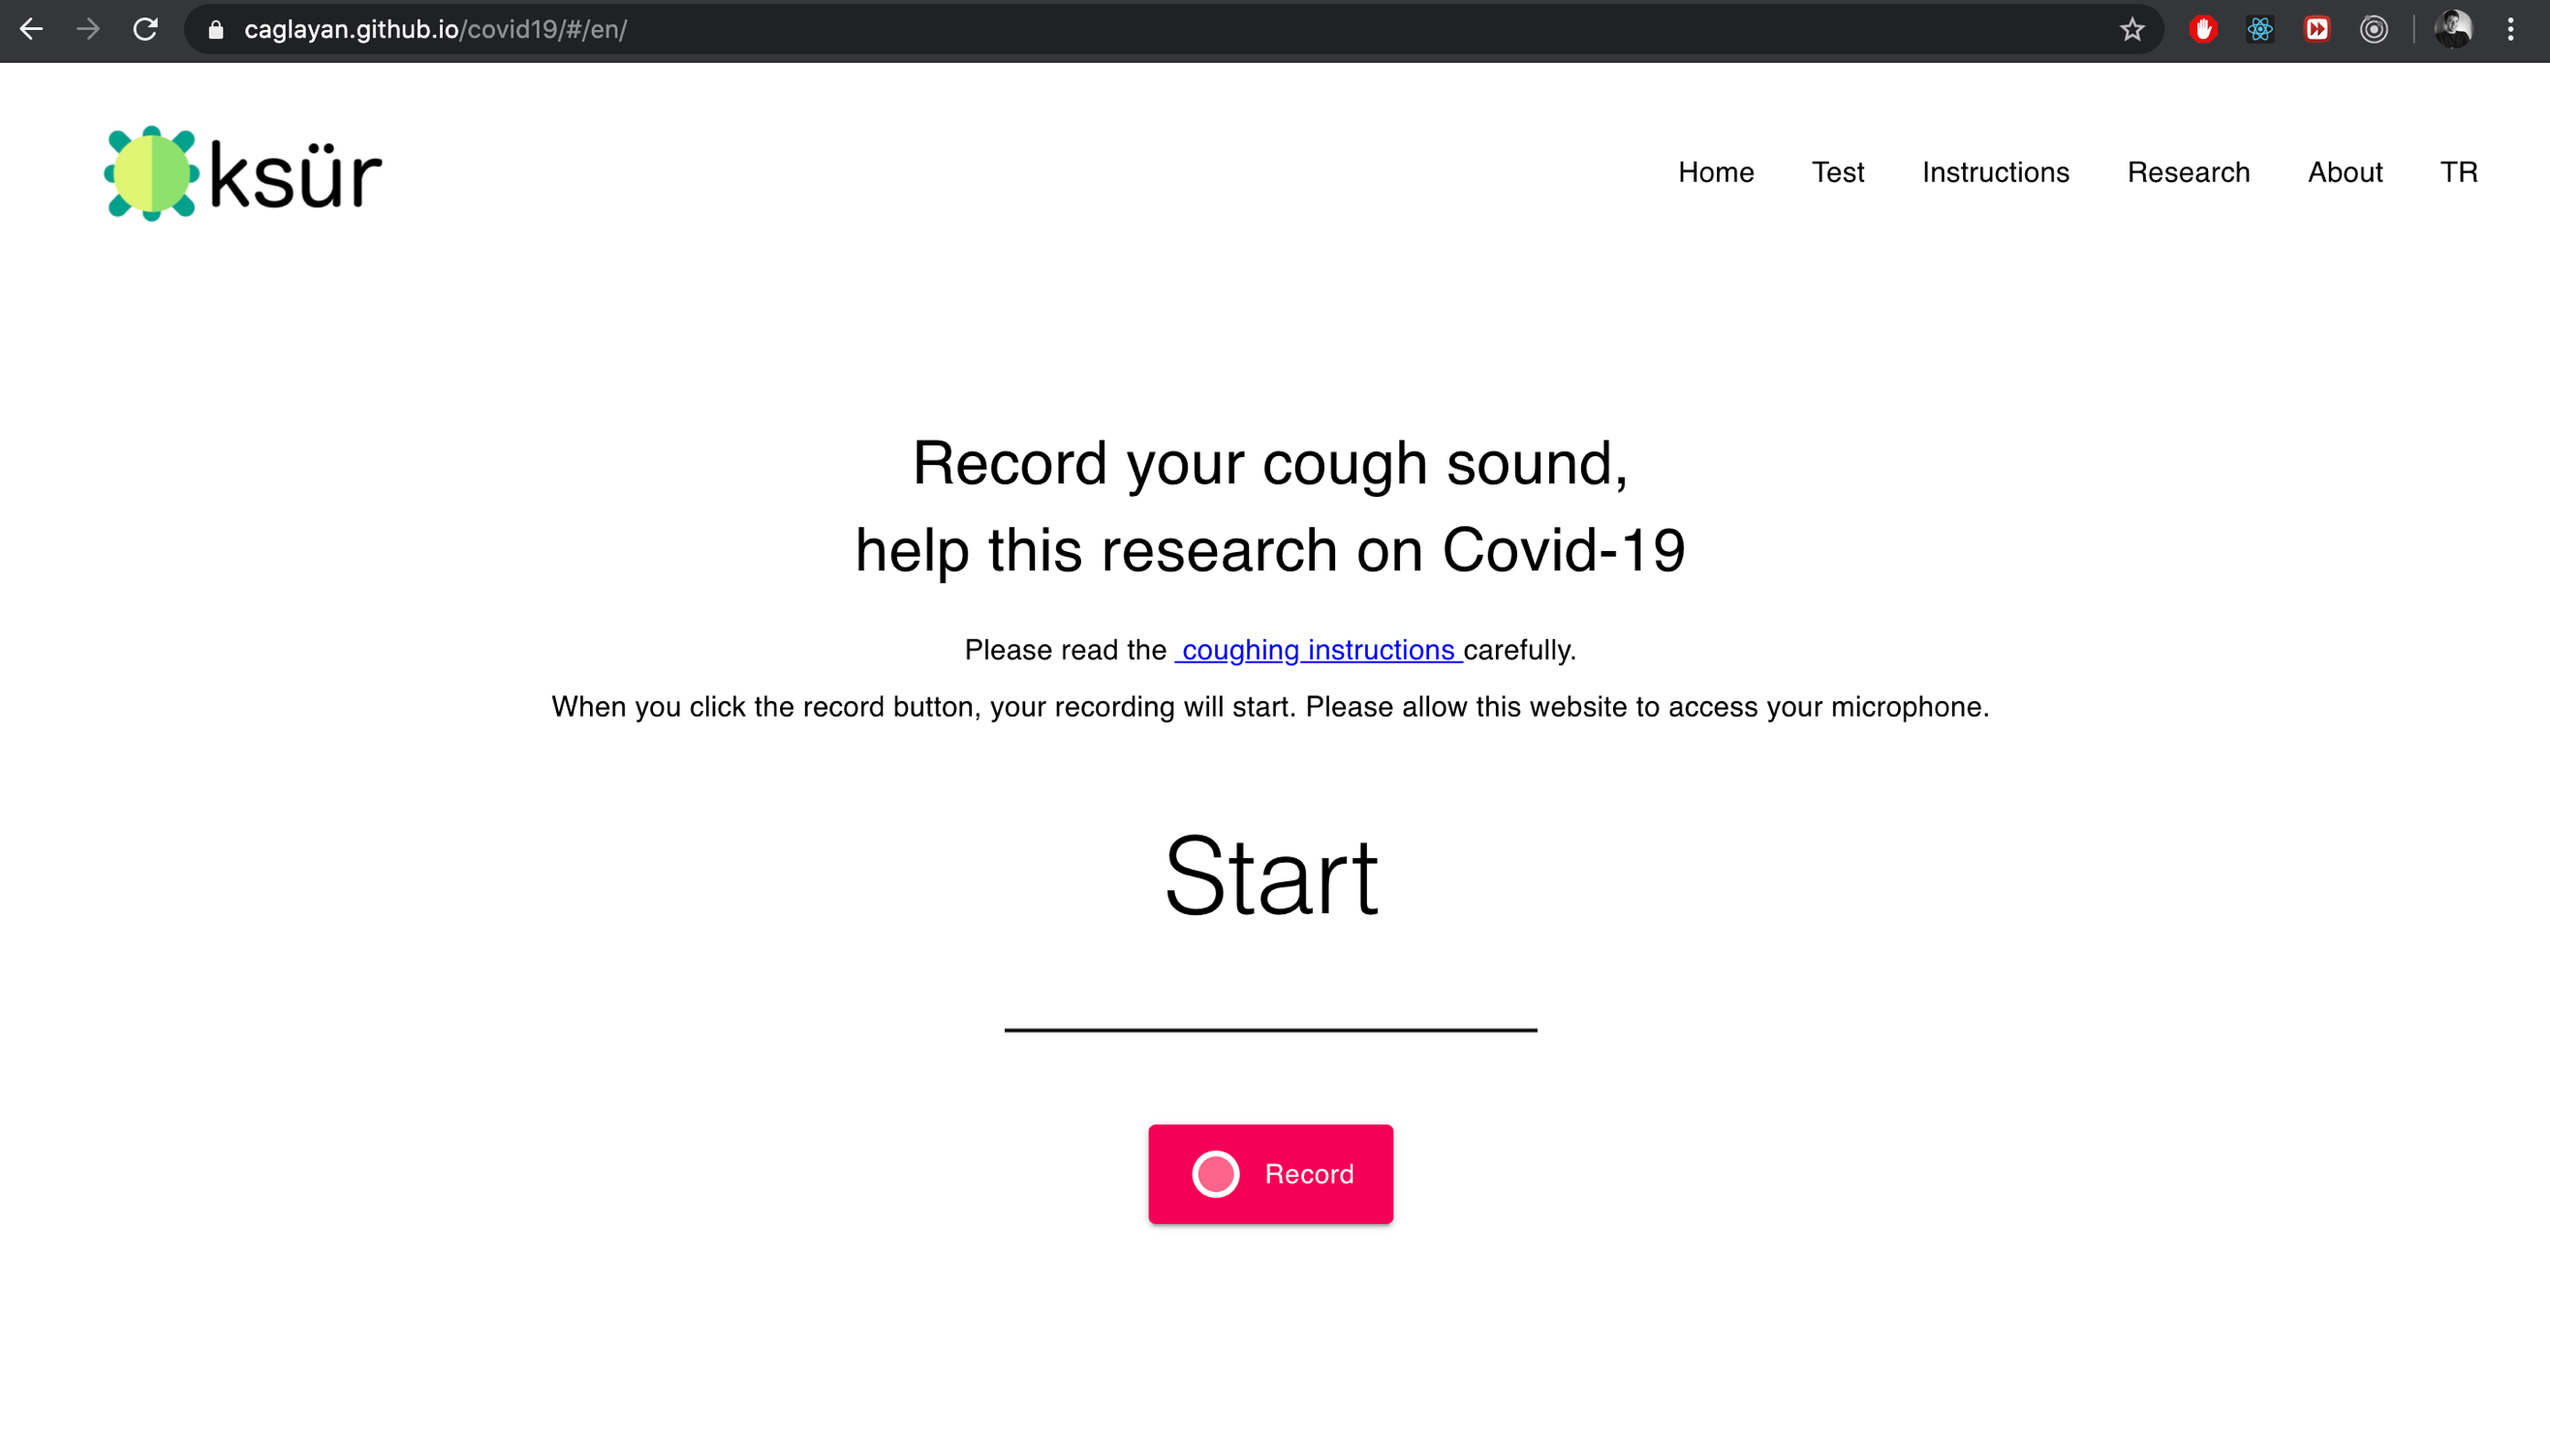
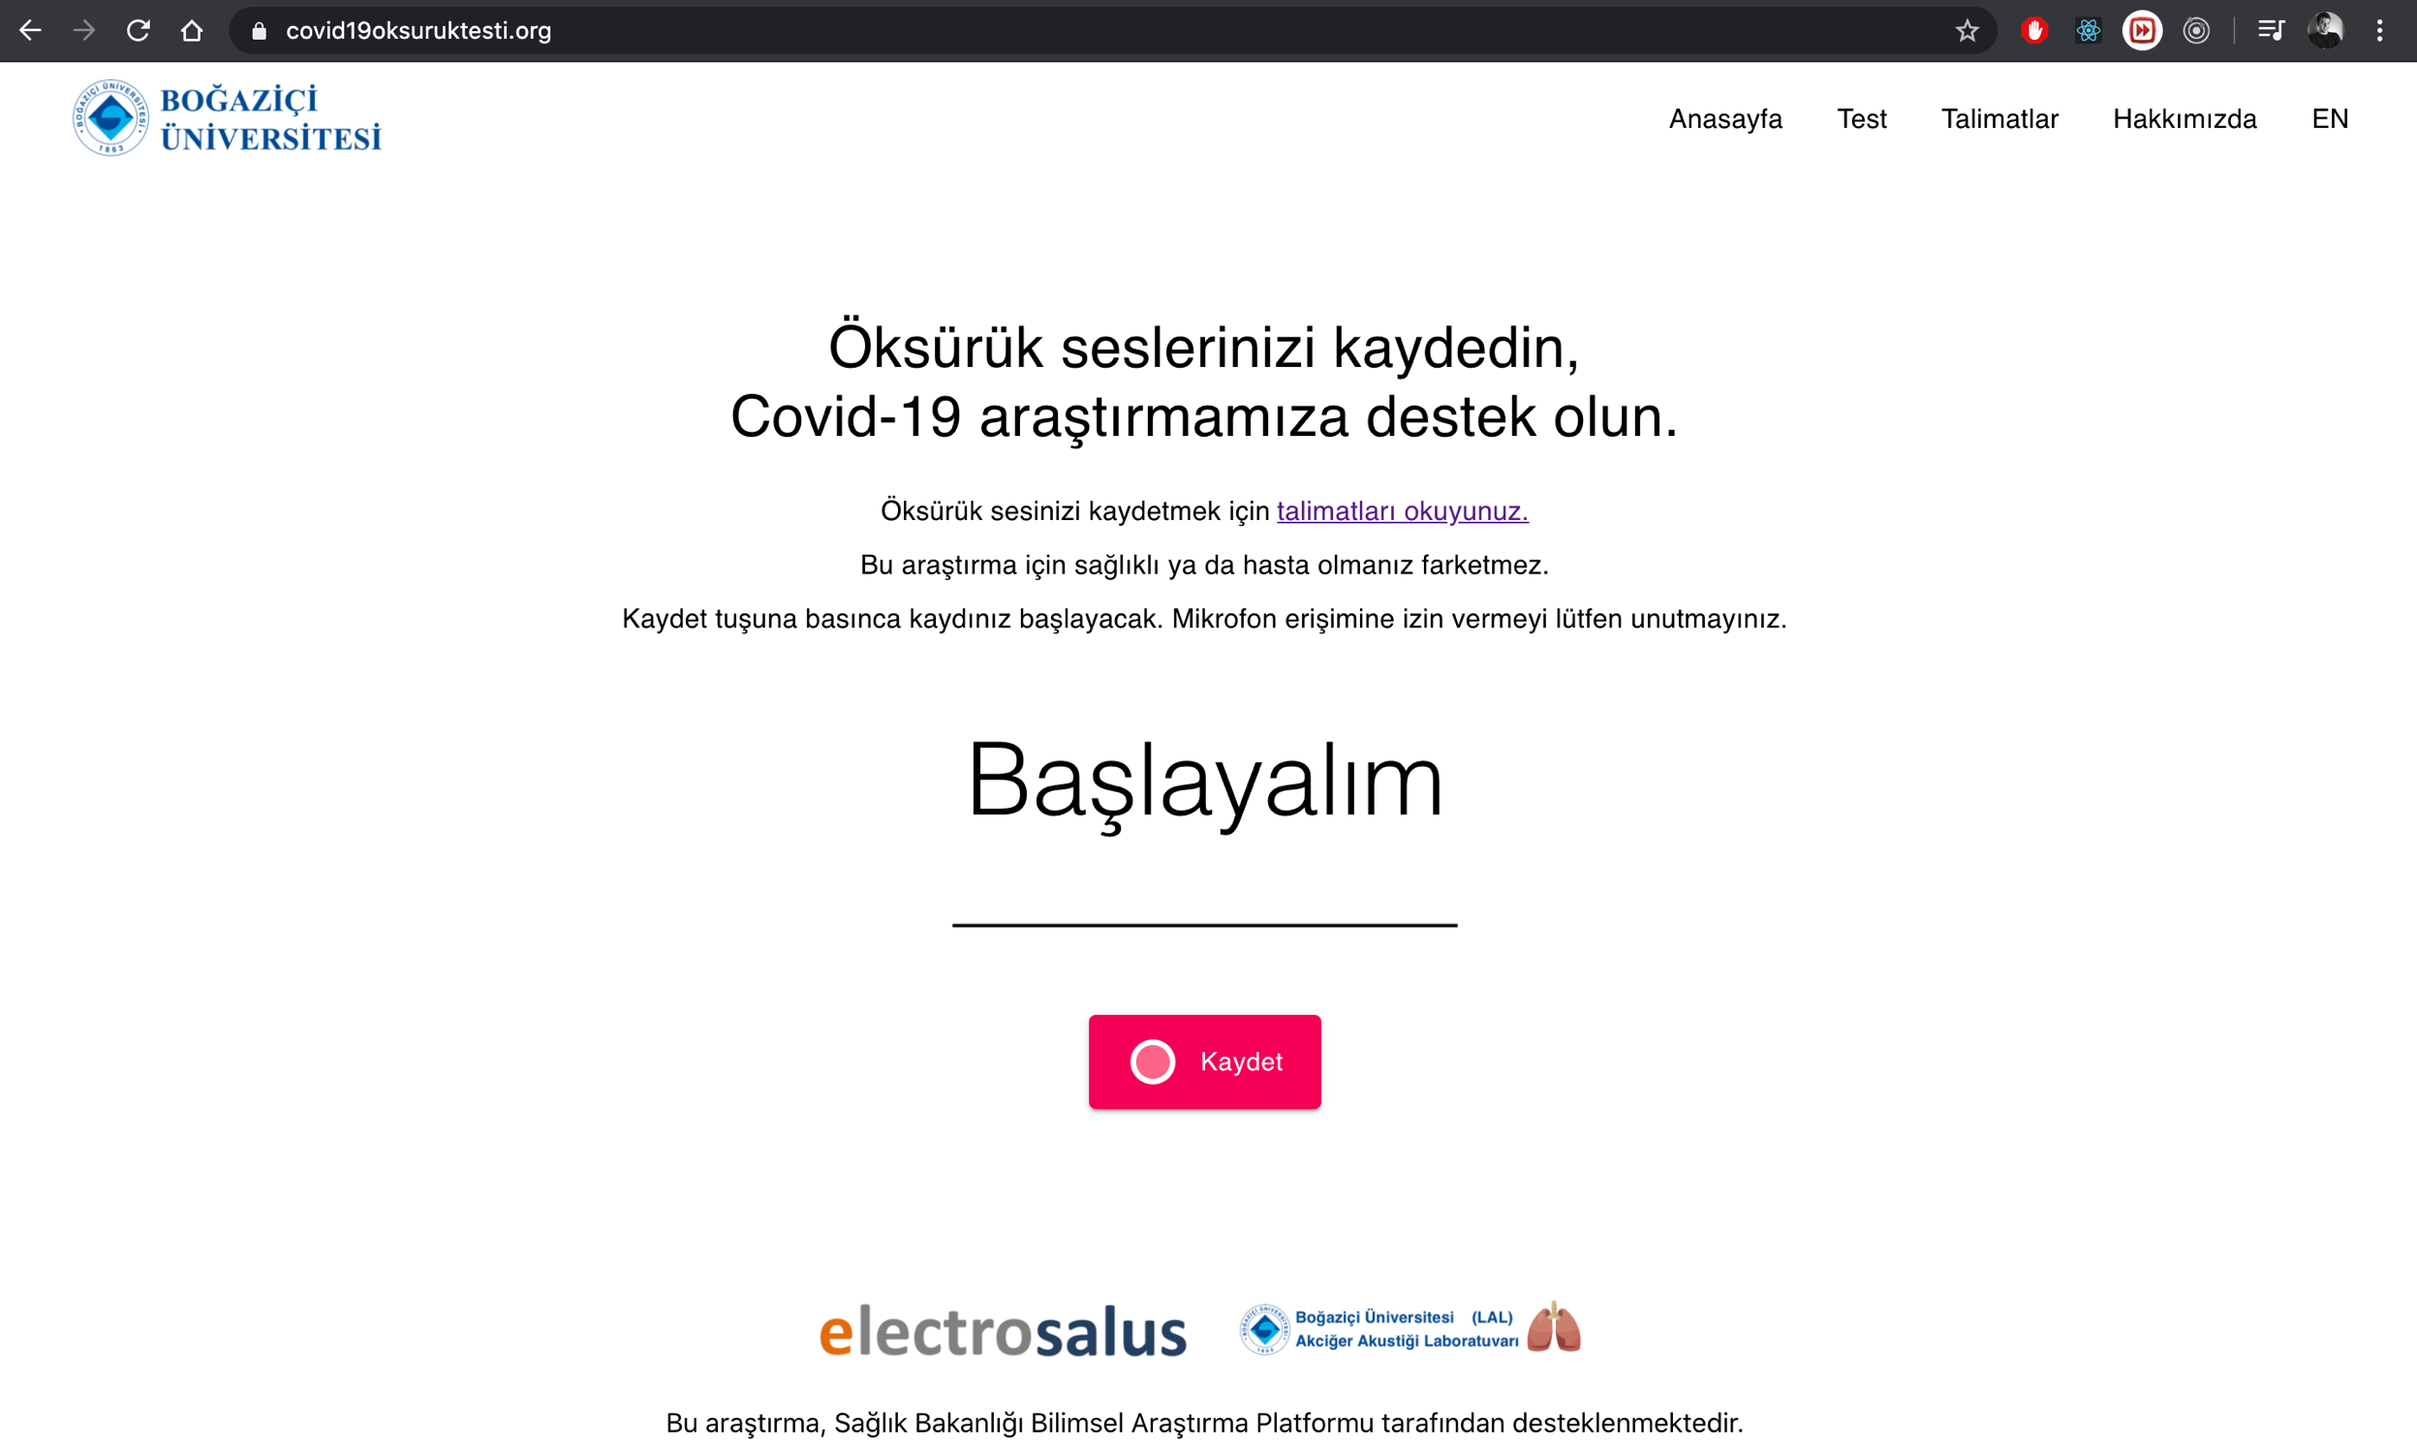
covid-19 project oksur to boun

diff --git a/index.html b/index.html
@@ -172,11 +172,11 @@
           <div class="resume-content">
             <div class="row">
               <div class="col-sm-4">
-                <img src="./img/covid19-test.jpeg" class="img-fluid" alt="COVID-19 Web site">
+                <img src="./img/covid19-test.png" class="img-fluid" alt="COVID-19 Web site">
               </div>
               <div class="col-sm-8">
-                <h3 class="mb-0">Udemy: <a target="_blank"
-                    href="https://www.udemy.com/course/arduino-egitimi/"><u>Covid-19 Test</u></a></h3>
+                <h3 class="mb-0">Udemy: <a target="_blank" href="https://covid19oksuruktesti.org/"><u>Covid-19
+                      Test</u></a></h3>
                 <div class="subheading mb-3">Covid-19 Test with Cough Sound using AI</div>
                 <p>To prevent the COVID-19 infections spreading, lots of diagnosis test-kits have been developed all
                   around the world. Diagnosis is important for the isolation of the infected people, preventing them
